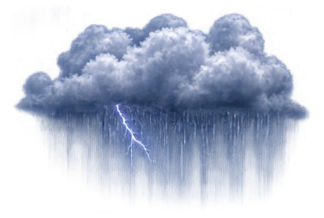
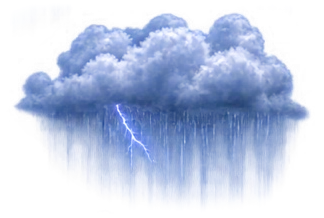
6loud DEV FORK 137: TITLE INTEGRITY — THE FLOORS RIDE THE GATE, THE WATCHDOG KEEPS ITS OWN TIME, THE STAGE WEARS THE WORLD, THE THUNDER BRIGHTENS (Keith's fork; the titlecheck-fork132 findings, renders/titlecheck-fork132.txt; item D ruled by widget tap 2026-11-16 19:14 ET). Builder section (142), de

diff --git a/6loud/dev/index.html b/6loud/dev/index.html
@@ -292,7 +292,7 @@
   <button id="charR" aria-label="Next character"></button>
   <div id="selectStack"><div id="charName">6LADE</div><div id="charBest"></div><div id="charLock" style="display:none;pointer-events:auto;cursor:pointer;"></div>   <!-- DEV FORK 74: the price line is a tap target — it opens the buy card --></div>
   <div id="strip"></div>
-  <div id="mapToast" style="display:none;"><img id="mapBadge" src="unlock-badge.webp" alt="NEW LEVEL UNLOCKED!"><div class="mt2" id="mapToastName">MIDNIGHT RUN</div></div>   <!-- DEV FORK 27: Keith's badge art carries the announcement; the gold line names the map --><div id="titleUI">   <!-- DEV FORK 26: the unlock toast lives at body level — a fixed element inside a transformed ancestor would anchor to the ancestor, not the sky --><button id="startBtn">START GAME</button><button id="mapBtn" style="display:none;">MAP: DAY BREAK</button>   <!-- DEV FORK 26: the start-area toggle --><button id="optBtn" class="audTg">OPTIONS</button><div id="ver">v0.99.8 · DEV FORK 136</div></div>
+  <div id="mapToast" style="display:none;"><img id="mapBadge" src="unlock-badge.webp" alt="NEW LEVEL UNLOCKED!"><div class="mt2" id="mapToastName">MIDNIGHT RUN</div></div>   <!-- DEV FORK 27: Keith's badge art carries the announcement; the gold line names the map --><div id="titleUI">   <!-- DEV FORK 26: the unlock toast lives at body level — a fixed element inside a transformed ancestor would anchor to the ancestor, not the sky --><button id="startBtn">START GAME</button><button id="mapBtn" style="display:none;">MAP: DAY BREAK</button>   <!-- DEV FORK 26: the start-area toggle --><button id="optBtn" class="audTg">OPTIONS</button><div id="ver">v0.99.8 · DEV FORK 137</div></div>
   <div id="dbg"></div>
   <div id="adSim"><div class="adSimIn"><button id="adSimClose" disabled>✕</button><div class="adSimTag">TEST AD · <span id="adSimKind">REWARDED</span></div><div class="adSimBody">Your ad would play here.</div><div id="adSimCount">5s</div><div class="adSimBar"><div id="adSimFill"></div></div><button id="adSimClaim" class="btn" style="display:none;">CLAIM REVIVE</button><div class="adSimHint" id="adSimHint"></div></div></div>
   <div id="loader"><div class="ldSea"></div><img id="ldEmblem" src="emblem.webp" alt="6LOUD"><div id="ldWord">LOADING...</div><div id="ldBarWrap"><div id="ldBar"><div id="ldFill"></div></div></div><div id="ldSub">GET READY TO JUMP!</div><div id="ldPct">LOADING 0%</div><div id="ldTip"></div></div>
@@ -1024,12 +1024,12 @@ window.__STORMBG.forEach(i => queueImg(im => { BGIMG['rs' + i] = im; }, 'stormbg
 /* DEV FORK 126: THE DAY PICK IS RETIRED WITH THE SHEET CLOUDS (Keith, 2026-11-16 11:11 + 11:27-11:28 ET -- the removal banner rides at __dressOne below): the day dress pick existed only to choose between the storm set (far plane) and the bgrain day pool (mid plane), and both are out of dress duty everywhere, so the pick answers null now. The function stays as a hook because the fork guard drives it; the pools, their loaders and their files stay in place (FORK 122's cull state untouched). */
 window.__dressDay = function (idx) { return null; };
 window.__CITYDUSK = {}; ['far', 'mid', 'near', 'fogband', 'far2', 'mid2', 'near2', 'far3', 'mid3', 'near3', 'far4', 'mid4', 'near4']   /* DEV FORK 99: sets 2-4 load beside the demo set */.forEach(k => queueImg(im => { window.__CITYDUSK[k] = im; }, 'citydusk/' + k + '.webp', false));   /* DEV FORK 87: the CITY DUSK demo plates — image-generated art, fog + bokeh baked in by code (Keith) */
-window.__SEASTRIP = null; queueImg(im => { window.__SEASTRIP = im; }, 'seastrip.webp', false);
-window.__MTNSTRIP = null; queueImg(im => { window.__MTNSTRIP = im; }, 'mtnstrip.webp', false);
-window.__OCEANSTRIP = null; queueImg(im => { window.__OCEANSTRIP = im; }, 'oceanstrip.webp', false);
-window.__CLOUDSTRIP = null; queueImg(im => { window.__CLOUDSTRIP = im; }, 'cloudstrip.webp', false);
-window.__PLAINSSTRIP = null; queueImg(im => { window.__PLAINSSTRIP = im; }, 'plainsstrip.webp', false);
-window.__SNOWSTRIP = null; queueImg(im => { window.__SNOWSTRIP = im; }, 'snowstrip.webp', false);   /* DEV FORK 127: THE SNOW RIDGE FLOOR strip (tools/bake_snowstrip.py) -- NIGHT SHIFT's floor: the banked snow master v1 (jagged dark peaks, bright snowfields) graded into the deep night (Keith's color-scheme rule), loaded lazy like the strips beside it */   /* DEV FORK 125: THE ROLLING PLAINS FLOOR strip (tools/bake_plainsstrip.py) -- SUN SHOWER's floor: his St. Croix + Puerto Rico land photos as a graded mosaic (Keith's color-scheme rule), loaded lazy like the strips beside it */   /* DEV FORK 124: THE CLOUD FLOOR strip (tools/bake_cloudstrip.py) -- STORM SEASON's floor: his 'Above the clouds' photos as a cloud-sea mosaic graded into the storm palette (Keith's color-scheme rule), loaded lazy like the strips beside it */   /* DEV FORK 123: THE OCEAN FLOOR strip (tools/bake_oceanstrip.py) -- MIDNIGHT RUN's floor: master v1's night coastline graded into the deep indigo night (Keith's color-scheme rule), loaded lazy like the strips beside it */   /* DEV FORK 121: THE MOUNTAIN FLOOR strip (tools/bake_mtnstrip.py) -- DAY BREAK's floor: master v2's layered desert ranges graded into the Journey palette (Keith's color-scheme rule), loaded lazy like the sea strip beside it */
+window.__SEASTRIP = null; queueImg(im => { window.__SEASTRIP = im; }, 'seastrip.webp', true);
+window.__MTNSTRIP = null; queueImg(im => { window.__MTNSTRIP = im; }, 'mtnstrip.webp', true);
+window.__OCEANSTRIP = null; queueImg(im => { window.__OCEANSTRIP = im; }, 'oceanstrip.webp', true);
+window.__CLOUDSTRIP = null; queueImg(im => { window.__CLOUDSTRIP = im; }, 'cloudstrip.webp', true);
+window.__PLAINSSTRIP = null; queueImg(im => { window.__PLAINSSTRIP = im; }, 'plainsstrip.webp', true);
+window.__SNOWSTRIP = null; queueImg(im => { window.__SNOWSTRIP = im; }, 'snowstrip.webp', true);   /* DEV FORK 127: THE SNOW RIDGE FLOOR strip (tools/bake_snowstrip.py) -- NIGHT SHIFT's floor: the banked snow master v1 (jagged dark peaks, bright snowfields) graded into the deep night (Keith's color-scheme rule), loaded lazy like the strips beside it */   /* DEV FORK 125: THE ROLLING PLAINS FLOOR strip (tools/bake_plainsstrip.py) -- SUN SHOWER's floor: his St. Croix + Puerto Rico land photos as a graded mosaic (Keith's color-scheme rule), loaded lazy like the strips beside it */   /* DEV FORK 124: THE CLOUD FLOOR strip (tools/bake_cloudstrip.py) -- STORM SEASON's floor: his 'Above the clouds' photos as a cloud-sea mosaic graded into the storm palette (Keith's color-scheme rule), loaded lazy like the strips beside it */   /* DEV FORK 123: THE OCEAN FLOOR strip (tools/bake_oceanstrip.py) -- MIDNIGHT RUN's floor: master v1's night coastline graded into the deep indigo night (Keith's color-scheme rule), loaded lazy like the strips beside it */   /* DEV FORK 121: THE MOUNTAIN FLOOR strip (tools/bake_mtnstrip.py) -- DAY BREAK's floor: master v2's layered desert ranges graded into the Journey palette (Keith's color-scheme rule), loaded lazy like the sea strip beside it */
 /* DEV FORK 126: THE FLOOR-STRIP LOAD RETRY (Keith's missing cloud bed, 2026-11-16 11:12-11:17 ET: his FORK 124 phone session showed NO cloud bed in Storm Season even though cloudstrip.webp served 200 -- the session had evidently asked for the strip while it was still propagating (Amy's own checks saw 503/404 for minutes after the code landed) and nothing ever re-asked, so the below slot waited empty all session; the queue's own retries burn in the first seconds against the same cached miss). The watchdog: armed once per floor strip below; if the strip still has no pixels when a delay elapses, it re-asks with a cache-busting ?r=N query -- up to 3 re-asks, seconds apart (the __STRIP_WATCH_MS delays); any success, the queue's own late load or a re-ask landing, stops the cycle. No draw geometry, gate or alpha changes; the five queueImg lines above stay byte-identical. */
 window.__STRIP_WATCH_MS = [6000, 12000, 24000];
 window.__stripWatch = function (get, set, src) {
@@ -1042,8 +1042,8 @@ window.__stripWatch = function (get, set, src) {
       if (now && now.naturalWidth) return;
       n++; const im = new Image();
       im.onload = function () { set(im); };
-      im.onerror = function () { tick(); };
       im.src = src + '?r=' + n;
+      tick();   /* DEV FORK 137: the next check arms NOW, on its own timer — the schedule advances whether this fetch lands, errors, or hangs (a hung fetch used to dead-end the chain: the error handler was the only road back into tick()) */
     }, delays.shift());
     if (t && t.unref) t.unref();
   };
@@ -1056,7 +1056,7 @@ window.__stripWatch(() => window.__CLOUDSTRIP, im => { window.__CLOUDSTRIP = im;
 window.__stripWatch(() => window.__PLAINSSTRIP, im => { window.__PLAINSSTRIP = im;}, 'plainsstrip.webp');
 window.__stripWatch(() => window.__SNOWSTRIP, im => { window.__SNOWSTRIP = im;}, 'snowstrip.webp');   /* DEV FORK 127: FORK 126's watchdog covers the snow strip too -- same __STRIP_WATCH_MS delays, same attempts */
 window.__below121 = { img: '', alpha: 0, tiles: 0 };   /* DEV FORK 121: the below-draw ledger -- which floor the slot drew this frame, at what gated alpha, in how many tiles (forkcheck S99 + the proof renderer read it) */
-window.__FLOWER = { sky: null, hills: null, strip: null, rainbow: null }; ['sky', 'hills', 'strip', 'rainbow'].forEach(   /* DEV FORK 118: the single rainbow loads with the plates — it is NOT baked into any of them */k => queueImg(im => { window.__FLOWER[k] = im; }, 'flowerboy/' + k + '.webp', false));   /* DEV FORK 108: the FLOWER FIELD plates (tools/bake_flowerboy.py) — fork-local demo art, loaded lazy like the background packs, never core */   /* DEV FORK 110: no bees are loaded — Keith removed them (2026-11-15: "Remove the beas and the rainbow"); the plates were re-baked bee- and rainbow-free (tools/bake_flowerboy_v2.py) and the bee webps stay on disk unreferenced */   /* DEV FORK 116: the plates are re-baked from the v3 NOTES master (tools/bake_flowerboy_v3.py) — the world is ours: every gold note lives whole in the hills plate (band extended to master 330-975, plate 1600x421) so no note shears across the parallax split, and the strip is pure sunflower texture with every note pixel painted out */   /* DEV FORK 95: THE SEA STRIP — one baked cloud-top field (tools/bake_seastrip.py, from Keith's realistic cloud photos), mirror-tiled by the sea draw in the standard worlds */
+window.__FLOWER = { sky: null, hills: null, strip: null, rainbow: null }; ['sky', 'hills', 'strip', 'rainbow'].forEach(   /* DEV FORK 118: the single rainbow loads with the plates — it is NOT baked into any of them */k => queueImg(im => { window.__FLOWER[k] = im; }, 'flowerboy/' + k + '.webp', true));   /* DEV FORK 108: the FLOWER FIELD plates (tools/bake_flowerboy.py) — fork-local demo art, loaded lazy like the background packs, never core */   /* DEV FORK 110: no bees are loaded — Keith removed them (2026-11-15: "Remove the beas and the rainbow"); the plates were re-baked bee- and rainbow-free (tools/bake_flowerboy_v2.py) and the bee webps stay on disk unreferenced */   /* DEV FORK 116: the plates are re-baked from the v3 NOTES master (tools/bake_flowerboy_v3.py) — the world is ours: every gold note lives whole in the hills plate (band extended to master 330-975, plate 1600x421) so no note shears across the parallax split, and the strip is pure sunflower texture with every note pixel painted out */   /* DEV FORK 95: THE SEA STRIP — one baked cloud-top field (tools/bake_seastrip.py, from Keith's realistic cloud photos), mirror-tiled by the sea draw in the standard worlds */
 /* DEV FORK 126: THE SHEET CLOUDS COME OUT -- EVERYWHERE (Keith, 2026-11-16 11:11 ET, circling the bright sheet-cut clouds drawing low in Storm Season on his phone: "Remove the clouds i circled i think we have a sheet full of them im not liking them"; widened the same morning, 11:27-11:28 ET, with a second screenshot: "Those clouds with the dark blue at the bottlm need to come out everywhere"). The sheet pools -- the storm set (dev/stormbg/, window.__STORMBG) and the bgrain pools (dev/bgrain/, window.__BGRAIN_D/__BGRAIN_N), all cut from his ChatGPT sheet (tools/cut_bgrain.py), their recognition feature the DARK BLUE painted rain bottom -- had exactly one job left: rain-world dress, the day pick through __dressDay (storm set far, bgrain day mid) and the night pick (bgrain night). That job is REMOVED, not swapped: in the rain worlds this now answers true (handled) WITHOUT drawing, so the standard cloud never substitutes into these planes either -- the storm sky, the ridges, the decks and the cloud floor carry the scene, and his eye judges the result. The pool arrays, the loaders and the files stay in place (FORK 122's cull state must not regress; the FORK 120 veil-cleaned art stays on disk untouched); the rain dress path simply stops selecting them. dressLow already stood down in the rain worlds (FORK 90), so the rain dress planes now draw nothing at all. Non-rain dress is byte-untouched. */
 window.__dressOne = function (d, star, dx, dy, ox, txm, tym) {
   if (window.__map !== 'rain' && window.__map !== 'rain2') return false;
@@ -2028,7 +2028,7 @@ function placeCourse(rp, shift, recOff) {
 
 function resetWorld() {
   plats = []; worldEnd = 0; exitBand = 2; lastSeg = -1; lastTier = 1; courseBase = 0; window.__specMid118 = undefined;   /* DEV FORK 118: a fresh course re-arms the spacing tracker */
-  addPlat(-300, 2, 'LONG'); worldEnd = -300 + LEN.LONG;
+  addPlat(-300, 2, 'LONG'); if (window.__pinBirth) window.__pinBirth();   /* DEV FORK 137: the birth deck wears the world's own cloud — the same art the title stage stands him on (in-run generation past the birth deck is untouched) */ worldEnd = -300 + LEN.LONG;
   /* THE OPENING STAIRCASE (Keith v0.43, reshaped v0.44, EVERYWHERE v0.47):
      long clouds stepping down ahead of the course — close together and
      deep under the fall line, so a brand-new player survives the first
@@ -2987,7 +2987,7 @@ function draw() {
   /* player: rendered sequences; on the title he runs in place */
   if (mode === 'title') {
     const cxT = viewW / zoom * 0.5, fyT = viewH / zoom * 0.53;   /* the composition sits HIGHER (Keith v0.74, back to the original select mock): feet at 53% instead of 62%, so the name can live under the cloud and the bottom of the screen isn't carrying everything */
-    const cimg = IMG['cloud01'], cd1 = CLOUDS['01'];
+    const __sc137 = window.__stageCloud ? window.__stageCloud() : null; const cimg = __sc137 ? __sc137.img : IMG['cloud01'], cd1 = __sc137 || CLOUDS['01'];   /* DEV FORK 137: the stage cloud is the SELECTED world's own deck art (window.__stageCloud), not the hardcoded cloud01 every world used to share */
     /* v0.16.1 (Keith: "remove the double cloud") — the title drew cloud-01
        TWICE (a base copy + the front lip) and the two offset copies read
        as two stacked clouds. Only the lip remains: one cloud, and it
@@ -3257,12 +3257,12 @@ function dbgTick(ts) { if (!window.__dbgReadout) { const __rd = $('dbg'); if (__
   if (mode === 'over') {   /* DEV FORK: on the results screen the readout SHRINKS to a two-line strip docked at the very bottom — the full panel was sprawled over the leaderboard (Keith's screenshot, 2026-11-11) */
     const el = $('dbg');
     el.style.top = 'auto'; el.style.bottom = 'calc(4px + env(safe-area-inset-bottom))'; el.style.fontSize = '9.5px';
-    el.textContent = 'FORK136 · OVER · ' + dbgFps + 'fps · ' + innerWidth + 'x' + innerHeight + ' · ' + selChar + ' R' + (PSKIN.rate || 1) + ' · DIST ' + Math.round(runFt()) + ' FT · SCR ' + score + ' · JMP ' + jumps + '\n' + ghostTxt + (DBG_EV.length ? ' · ' + DBG_EV[DBG_EV.length - 1] : '');
+    el.textContent = 'FORK137 · OVER · ' + dbgFps + 'fps · ' + innerWidth + 'x' + innerHeight + ' · ' + selChar + ' R' + (PSKIN.rate || 1) + ' · DIST ' + Math.round(runFt()) + ' FT · SCR ' + score + ' · JMP ' + jumps + '\n' + ghostTxt + (DBG_EV.length ? ' · ' + DBG_EV[DBG_EV.length - 1] : '');
     return;
   }
   const el = $('dbg'); el.style.top = ''; el.style.bottom = ''; el.style.fontSize = '';
   const lines = [
-    'FORK136 · ' + String(mode).toUpperCase() + ' · ' + dbgFps + 'fps · ' + innerWidth + 'x' + innerHeight + ' dpr' + (devicePixelRatio || 1),
+    'FORK137 · ' + String(mode).toUpperCase() + ' · ' + dbgFps + 'fps · ' + innerWidth + 'x' + innerHeight + ' dpr' + (devicePixelRatio || 1),
     'CHR ' + selChar + ' R' + (PSKIN.rate || 1) + ' · SPD ' + Math.round(speed) + ' · ZOOM ' + zoom.toFixed(2),
     'DIST ' + Math.round(runFt()) + ' FT · SCR ' + score + ' · JMP ' + jumps,
     'vy ' + Math.round(vy) + (grounded ? ' · GROUND' : ' · AIR ' + (airMove || '-')) + ' · DBL ' + (doubleArmed ? 'ARM' : doubleUsed ? 'USED' : '-') + ' · TPL ' + (tripleUsed ? 'USED' : '-'),
@@ -3815,6 +3815,14 @@ window.__debugTest = { enter: () => window.__enterDebug(), exit: () => window.__
 { const bb = document.createElement('button'); bb.id = 'dbgBack'; bb.textContent = '‹ BACK'; if (bb.style) bb.style.cssText = 'position:fixed;top:calc(10px + env(safe-area-inset-top));right:10px;z-index:40;display:none;padding:10px 18px;border-radius:12px;border:2px solid #ffd83d;background:rgba(10,8,24,.85);color:#ffd83d;font-family:inherit;font-size:15px;font-weight:700;'; if (bb.addEventListener) bb.addEventListener('click', e => { e.stopPropagation(); if (window.__exitDebug) window.__exitDebug(); }); try { document.body.appendChild(bb); } catch (e) {} window.__dbgBackBtn = bb; let dDrag = null; window.addEventListener('pointerdown', e => { if (mode === 'debug' && !(e.target && e.target.id === 'dbgBack')) { window.__dbgDragOn = true; window.__dbgVel = null; dDrag = { x: e.clientX, y: e.clientY }; e.stopPropagation(); } }, true); window.addEventListener('pointermove', e => { if (mode === 'debug' && dDrag) { const gdx = (e.clientX - dDrag.x) * 5 / zoom, gdy = (e.clientY - dDrag.y) * 2.5 / zoom; camX = Math.max(-600, camX - gdx); camY = Math.max(-1900, Math.min(200, camY - gdy)); window.__dbgVel = { x: -gdx, y: -gdy, t: performance.now() }; dDrag = { x: e.clientX, y: e.clientY };   /* DEV FORK 75: the pan runs 5x the finger (Keith: 'not panning fast enough') and remembers the flick for the glide */ } }); window.addEventListener('pointerup', () => { dDrag = null; window.__dbgDragOn = false; if (window.__dbgVel && performance.now() - window.__dbgVel.t > 90) window.__dbgVel = null; });   /* DEV FORK 75: a fresh flick becomes the glide; a stale one dies */ window.addEventListener('wheel', e => { if (mode === 'debug') camX = Math.max(-600, camX + (e.deltaY + e.deltaX) * 6 / zoom);   /* DEV FORK 75: the wheel pans at review speed too */ }, { passive: true }); window.addEventListener('keydown', e => { if (mode === 'debug') { if (e.key === 'ArrowRight') camX += 2600; if (e.key === 'ArrowLeft') camX = Math.max(-600, camX - 2600); if (e.key === 'ArrowUp') camY = Math.max(-1900, camY - 500); if (e.key === 'ArrowDown') camY = Math.min(200, camY + 500);   /* DEV FORK 75: arrow hops sized for a 20,000 FT course */ } }); }   /* DEV FORK 73: manual scroll — drag on the phone, wheel and arrows on a desk; the capture-phase press block keeps every tap out of the jump path while reviewing */
 window.__RAINKEYS = [ { t: 0, c: [[74,84,108],[104,112,132],[138,140,152],[168,164,158]], star: 0 }, { t: 0.30, c: [[52,56,84],[76,76,104],[104,96,116],[128,110,118]], star: 0.25 }, { t: 0.42, c: [[16,20,38],[28,34,58],[44,50,74],[60,64,88]], star: 0.85 }, { t: 0.68, c: [[12,16,34],[24,30,54],[38,44,70],[54,58,84]], star: 1 }, { t: 0.80, c: [[30,36,60],[56,60,88],[84,84,104],[110,104,110]], star: 0.45 }, { t: 0.90, c: [[62,66,92],[104,102,118],[146,134,124],[178,158,128]], star: 0.08 }, { t: 1.00, c: [[74,84,108],[104,112,132],[138,140,152],[168,164,158]], star: 0 } ];   /* DEV FORK 69: the storm palette — slate, bruised mauve, ink; the cycle's shape is the base sky's, the weather never leaves */
 window.__skyRain = function (ph) { const K = window.__RAINKEYS; for (let i = 0; i < K.length - 1; i++) { const a = K[i], b = K[i + 1]; if (ph >= a.t && ph <= b.t) { const f = (ph - a.t) / Math.max(0.0001, b.t - a.t); const c = a.c.map((col, k) => col.map((v, j) => Math.round(v + (b.c[k][j] - v) * f))); return { c, star: a.star + (b.star - a.star) * f }; } } return { c: K[0].c, star: 0 }; };
+window.__STAGE_CLOUDS = { mnt: '01', mnt2: '01', gold: '24', night: '11', night2: '11', flower: '17' };   /* DEV FORK 137: each world's title-stage cloud, dealt from the SAME LONGC pool its own decks wear (the draw + cdOf) — DAY BREAK keeps the classic '01' the stage always wore */
+window.__stageCloud = function () {   /* DEV FORK 137: THE TITLE STAGE WEARS THE WORLD'S OWN CLOUD — rain worlds stand him on the birth deck's own rain plate (the x=-300 hash addPlat deals), every other world on its __STAGE_CLOUDS member; one shape back: {key, rain?, img, asp, surf} */
+  const m = window.__map;
+  if ((m === 'rain' || m === 'rain2') && window.__RAINKEEP && window.__RAINCD) { const ri = window.__RAINKEEP[Math.floor(Math.abs(Math.sin(-300 * 0.9137) * 43758.5453) % 1 * window.__RAINKEEP.length)]; const cd = window.__RAINCD[ri]; if (cd) return { key: 'rain' + ri, rain: ri, img: IMG['rain' + ri], asp: cd[0], surf: cd[1] }; }
+  const key = (window.__STAGE_CLOUDS && window.__STAGE_CLOUDS[m]) || '01'; const cd = CLOUDS[key] || CLOUDS['01'];
+  return { key, img: IMG['cloud' + key], asp: cd.asp, surf: cd.surf };
+};
+window.__pinBirth = function () { const p = plats[0]; if (!p || !window.__stageCloud) return; const sc = window.__stageCloud(); if (sc.rain !== undefined) p.rain = sc.rain; else p.img = sc.key; };   /* DEV FORK 137: the birth deck wears the stage cloud's art, so the deck he is born on is the cloud he stood on */
 window.__rainDeck = (x) => (window.__rainGen ? window.__rainGen(x) : (window.__map === 'rain' || window.__map === 'rain2')) ? { storm: true, rain: window.__RAINKEEP[Math.floor(Math.abs(Math.sin(x * 0.9137) * 43758.5453) % 1 * window.__RAINKEEP.length)] } : {};   /* DEV FORK 69: one dresser for every non-addPlat deck (staircase, climb, event lines) */
 window.__RAINKEEP = [3,4,5,7,9,10,13,14,17,18,19,23,24,28,29,32,33,34,36,38,39,40,42,43,44,47,48,49,53,57,58,59,63,64,67,68,69,72,73,74,78,82,83,84,88,92,94,96,99];   /* DEV FORK 89: Keith's ROUND-CLOUD cull — nine more out (files 7, 16, 26, 28, 36, 38, 46, 57, 81: the domes and cotton balls off the round-qc sheet); 49 rain clouds stay. __RAINCD keeps all 100 rows — it is indexed by original id */
 window.__RAINCD = [[0.578,0.18],[0.656,0.164],[0.594,0.093],[0.443,0.157],[0.368,0.094],[0.586,0.131],[0.591,0.109],[0.518,0.089],[0.343,0.2],[0.409,0.116],[0.342,0.133],[0.595,0.099],[0.734,0.118],[0.708,0.123],[0.444,0.204],[0.302,0.135],[0.584,0.17],[0.599,0.138],[0.628,0.074],[0.404,0.158],[0.315,0.128],[0.691,0.106],[0.573,0.077],[0.599,0.068],[0.401,0.088],[0.281,0.2],[0.47,0.182],[0.502,0.138],[0.572,0.174],[0.632,0.157],[0.43,0.109],[0.649,0.143],[0.554,0.105],[0.632,0.093],[0.388,0.113],[0.438,0.05],[0.554,0.117],[0.459,0.133],[0.623,0.115],[0.513,0.098],[0.497,0.092],[0.512,0.094],[0.645,0.171],[0.442,0.152],[0.51,0.14],[0.391,0.077],[0.631,0.177],[0.557,0.071],[0.411,0.091],[0.472,0.074],[0.396,0.065],[0.769,0.136],[0.496,0.205],[0.629,0.134],[0.395,0.233],[0.394,0.144],[0.765,0.107],[0.532,0.195],[0.482,0.203],[0.582,0.142],[0.442,0.228],[0.799,0.116],[0.533,0.197],[0.593,0.157],[0.412,0.126],[0.389,0.112],[0.749,0.179],[0.635,0.101],[0.449,0.104],[0.432,0.152],[0.429,0.085],[0.75,0.153],[0.475,0.207],[0.614,0.19],[0.489,0.072],[0.359,0.067],[0.677,0.182],[0.539,0.163],[0.453,0.117],[0.419,0.183],[0.326,0.143],[0.491,0.138],[0.466,0.189],[0.516,0.073],[0.388,0.106],[0.338,0.124],[0.533,0.149],[0.578,0.22],[0.612,0.109],[0.433,0.301],[0.333,0.169],[0.568,0.147],[0.479,0.143],[0.446,0.154],[0.393,0.12],[0.348,0.21],[0.612,0.216],[0.48,0.142],[0.528,0.097],[0.377,0.221]];   /* DEV FORK 68: per-cloud measurements (aspect, surface line) for Keith's rain clouds, scanned from their alpha */
